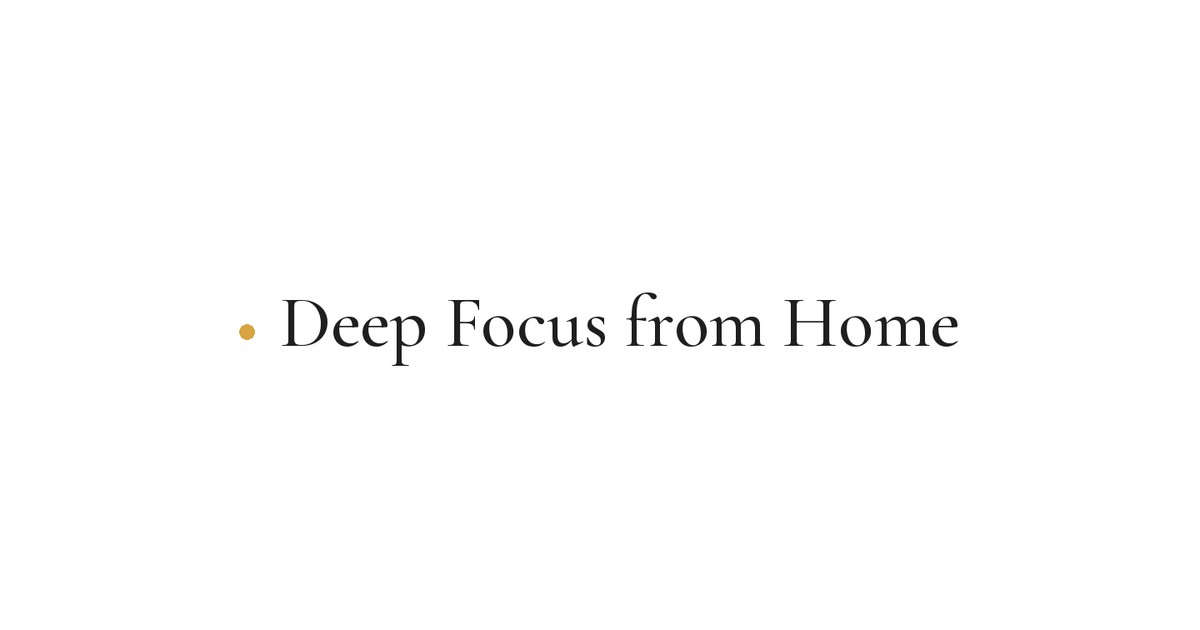
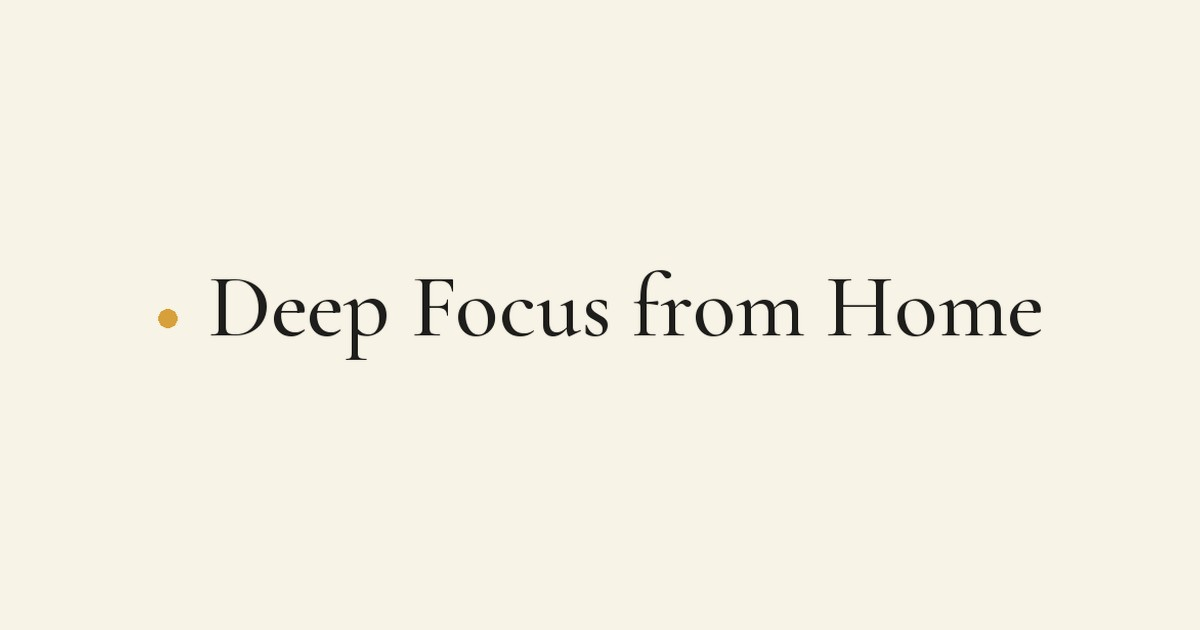
Trim wordmark padding, transparent bg; size header/print/PDF/OG

Changed region(s): [[0.1233, 0.4222, 0.8942, 0.6032]]

diff --git a/src/lib/daily-pdf-layout.ts b/src/lib/daily-pdf-layout.ts
@@ -94,8 +94,8 @@ export function drawDailyPdf(doc: jsPDF, day: PdfDay) {
   let hasLogo = false;
   if (day.logo) {
     try {
-      // Wordmark (4:1) replaces the brand text line.
-      doc.addImage(day.logo, "PNG", M, y, 112, 28);
+      // Wordmark (~8.5:1) replaces the brand text line.
+      doc.addImage(day.logo, "PNG", M, y + 4, 169, 20);
       hasLogo = true;
     } catch {
       /* logo is decoration only */
@@ -108,7 +108,7 @@ export function drawDailyPdf(doc: jsPDF, day: PdfDay) {
   }
   color(GOLD);
   font("bold", 7.5);
-  doc.text(pdfText(day.kicker.toUpperCase()), M, y + (hasLogo ? 38 : 30), { charSpace: 1.2 });
+  doc.text(pdfText(day.kicker.toUpperCase()), M, y + (hasLogo ? 36 : 30), { charSpace: 1.2 });
   color(OLIVE);
   font("bold", 12);
   doc.text(pdfText(day.dateLine), PAGE_W - M, y + 17, { align: "right" });

diff --git a/src/components/app-shell.tsx b/src/components/app-shell.tsx
@@ -64,9 +64,9 @@ export function AppShell({ children }: { children: React.ReactNode }) {
           <Link to="/" className="flex min-w-0 items-center gap-3" aria-label="Deep Focus from Home — home">
             <img
               src="/images/wordmark.png"
-              width={1200} height={300} decoding="async"
+              width={879} height={104} decoding="async"
               alt="Deep Focus from Home"
-              className="h-7 w-auto mix-blend-multiply sm:h-9"
+              className="h-5 w-auto sm:h-7"
             />
           </Link>
           <nav aria-label="Site" className="ml-auto flex items-center gap-4">

diff --git a/src/styles.css b/src/styles.css
@@ -363,7 +363,7 @@ html[data-df-starter] .df-pre-welcome {
   .daily-print-header .daily-print-logo {
     display: block;
     width: auto;
-    height: 0.4in;
+    height: 0.28in;
   }
 
   .daily-print-header .daily-print-brand {
